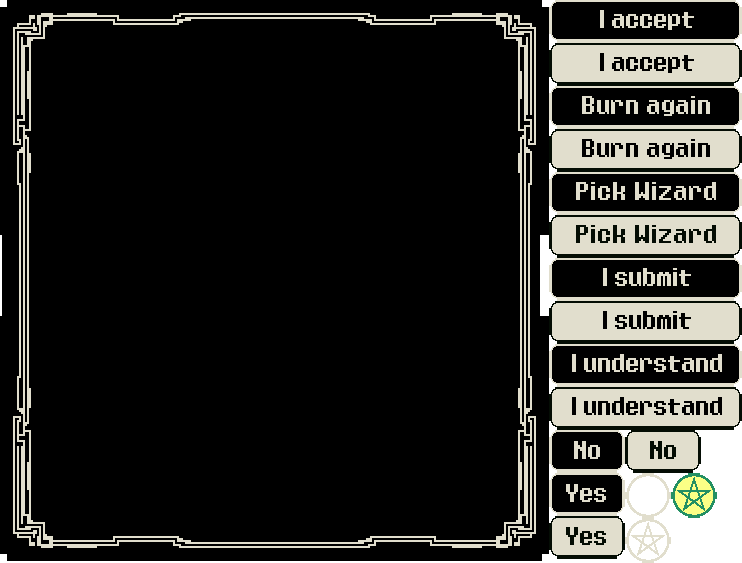
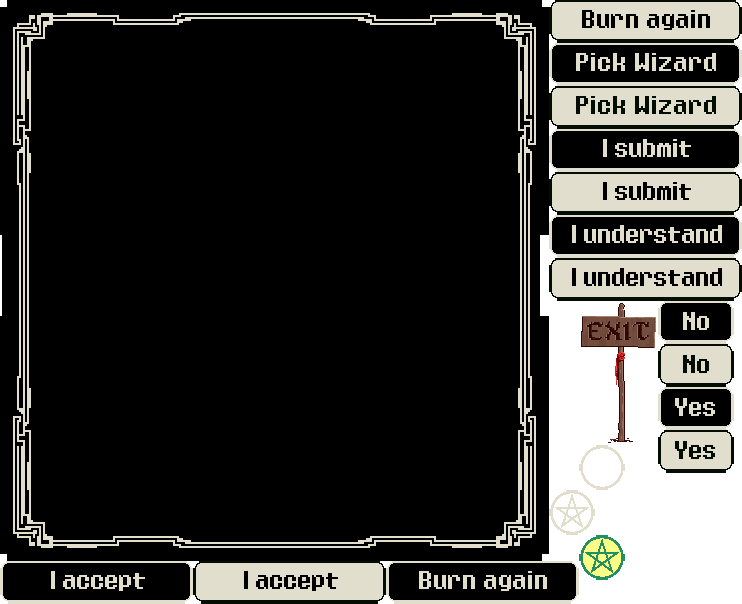
Exit button. mine page

diff --git a/pages/mine.tsx b/pages/mine.tsx
@@ -12,6 +12,15 @@ import {
   WIZARDS_CONTRACT_ADDRESS,
 } from "../contracts/ForgottenRunesWizardsCultContract";
 import { Box } from "rebass";
+import styled from "@emotion/styled";
+
+const NFTGrid = styled.div`
+  display: grid;
+  grid-auto-columns: 1fr 1fr 1fr 1fr;
+  grid-template-columns: 1fr 1fr 1fr 1fr;
+  gap: 0px 0px;
+`;
+const NFTItem = styled.div``;
 
 const MyNftsGrid = () => {
   const { web3Settings } = useMst();
@@ -21,29 +30,33 @@ const MyNftsGrid = () => {
   return (
     <>
       <h1>Wizards</h1>
-      {myWizards &&
-        wizardsContract &&
-        myWizards.map((value) => (
-          <React.Fragment key={value.toNumber()}>
-            <NFTDisplay
-              contractAddress={wizardsContract}
-              tokenId={value.toNumber().toString()}
-              pixelArt={true}
-            />
-          </React.Fragment>
-        ))}
+      <NFTGrid>
+        {myWizards &&
+          wizardsContract &&
+          myWizards.map((value) => (
+            <NFTItem key={value.toNumber()}>
+              <NFTDisplay
+                contractAddress={wizardsContract}
+                tokenId={value.toNumber().toString()}
+                pixelArt={true}
+              />
+            </NFTItem>
+          ))}
+      </NFTGrid>
       <h1>Souls</h1>
-      {mySouls &&
-        soulsContract &&
-        mySouls.map((value) => (
-          <React.Fragment key={value.toNumber()}>
-            <NFTDisplay
-              contractAddress={soulsContract}
-              tokenId={value.toNumber().toString()}
-              pixelArt={true}
-            />
-          </React.Fragment>
-        ))}
+      <NFTGrid>
+        {mySouls &&
+          soulsContract &&
+          mySouls.map((value) => (
+            <NFTItem key={value.toNumber()}>
+              <NFTDisplay
+                contractAddress={soulsContract}
+                tokenId={value.toNumber().toString()}
+                pixelArt={true}
+              />
+            </NFTItem>
+          ))}
+      </NFTGrid>
     </>
   );
 };

diff --git a/game/scenes/wizards/pyre/PyreScene.ts b/game/scenes/wizards/pyre/PyreScene.ts
@@ -326,13 +326,14 @@ export class PyreScene extends Phaser.Scene {
       centerX,
       0 + 1200,
       "soulsUI",
-      "yes_default.png",
-      "yes_hover.png",
+      "exit1.png",
+      "exit1.png",
       ({ btn }: { btn: ImageButton }) => {
         console.log("exit");
         this.dismissScene();
       }
     );
+    exitButton.setOrigin(0.5, 0);
     exitButton.setScale(0.5);
     this.add.existing(exitButton);
   }
